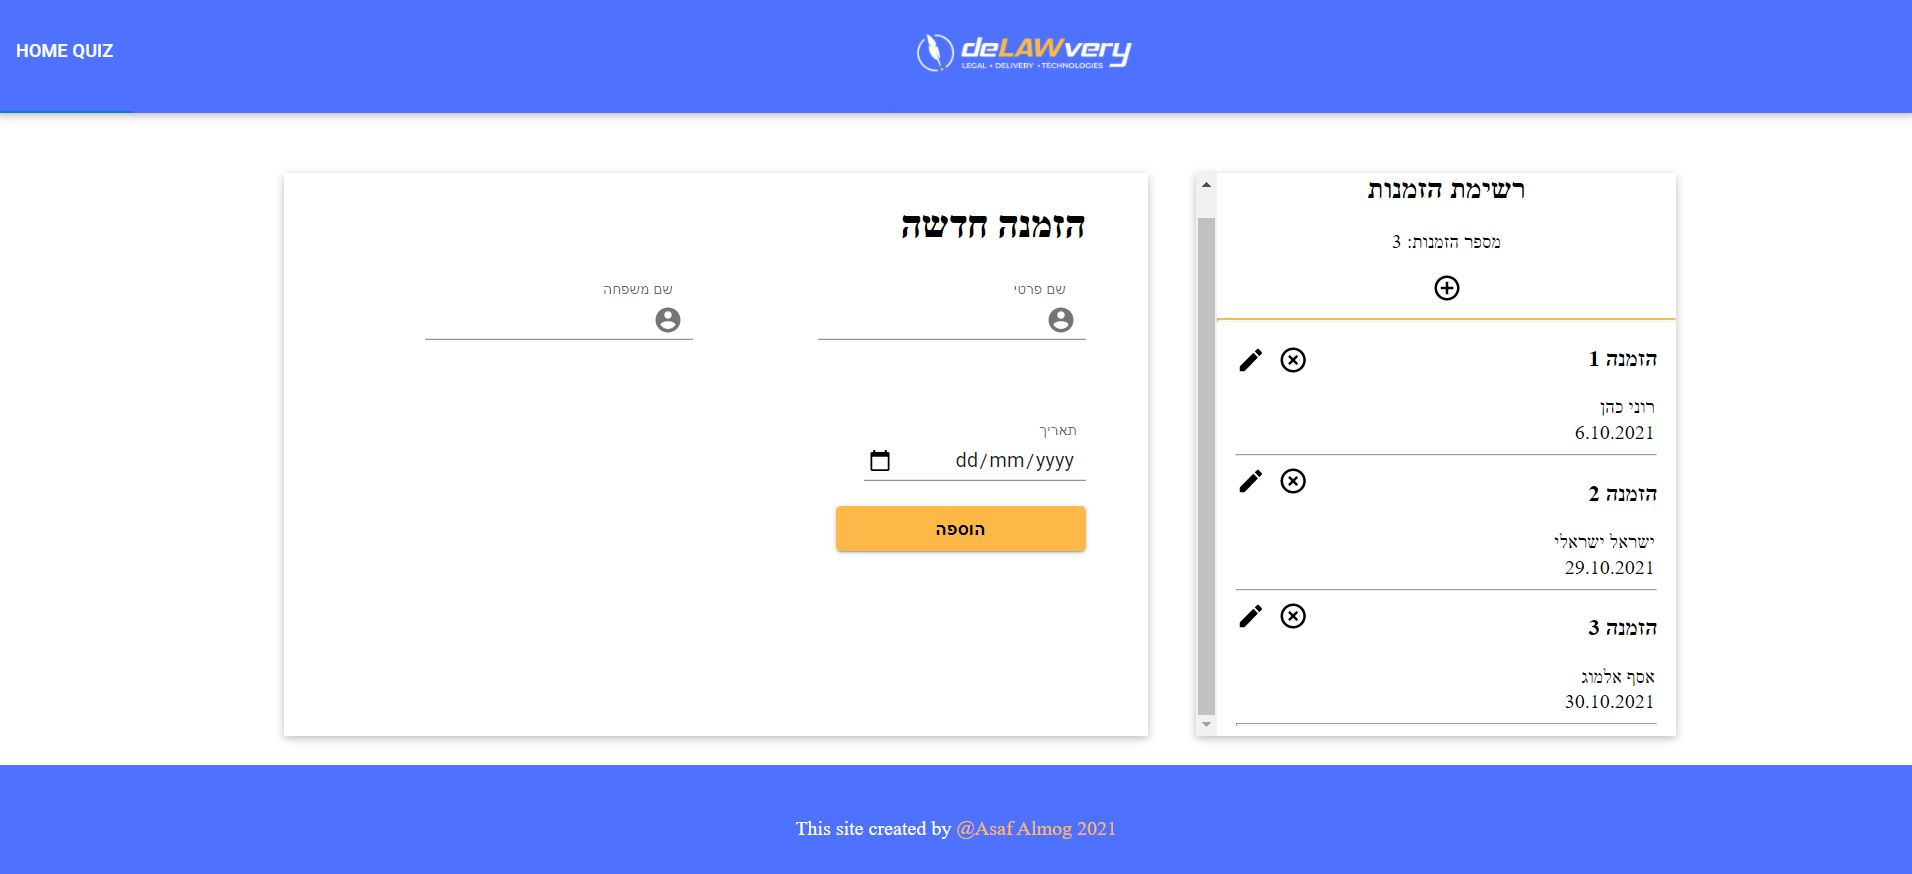
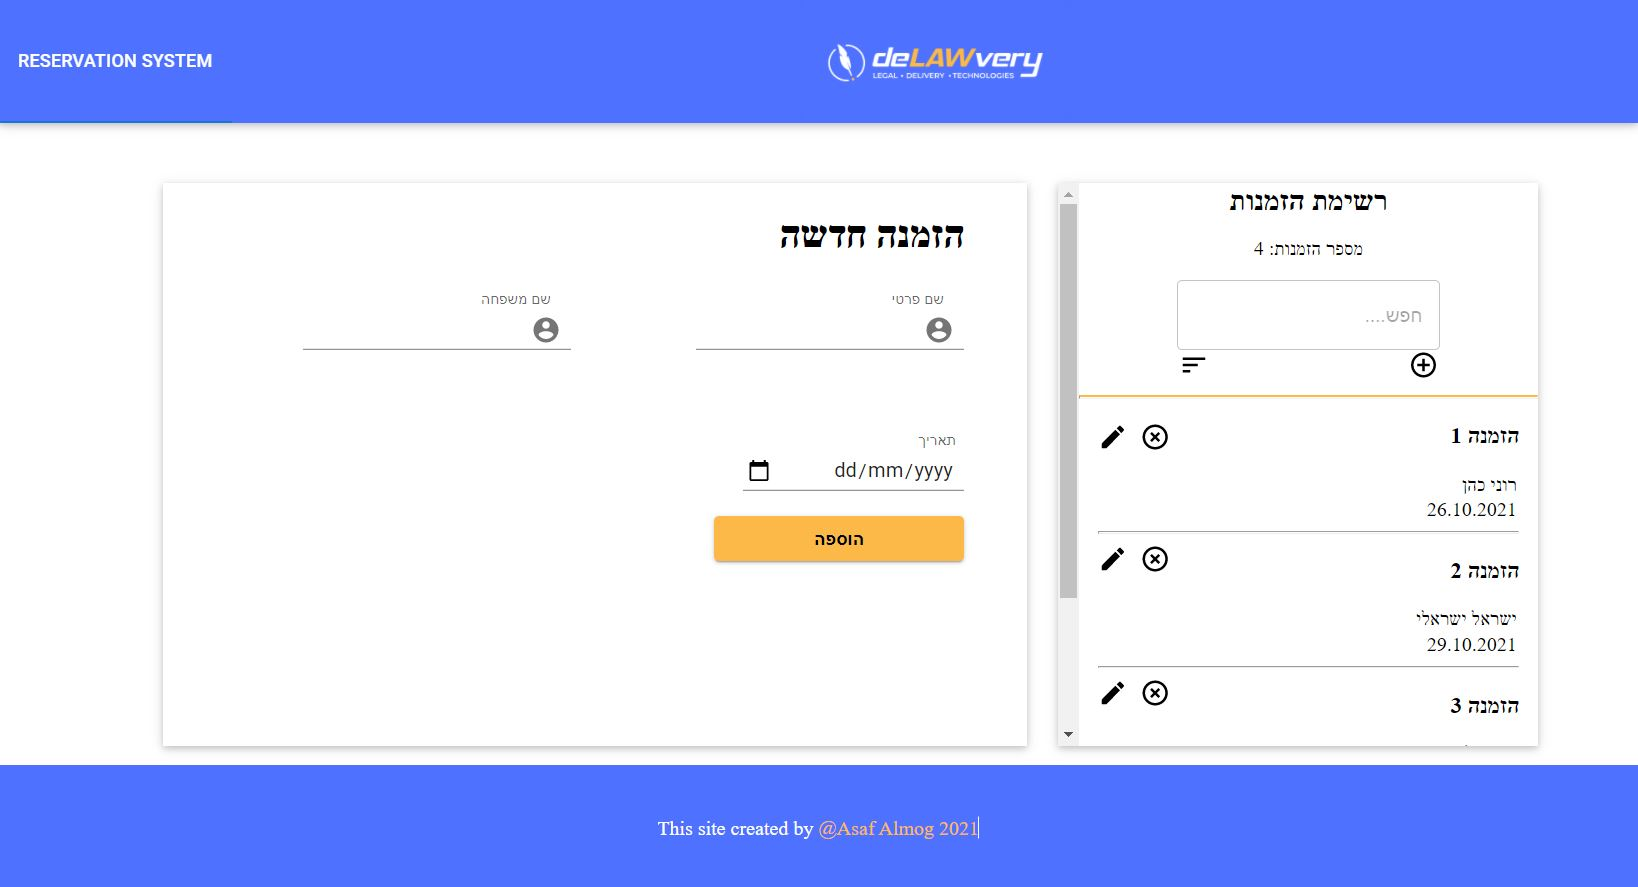
update sort, search and css

diff --git a/src/components/Reservations/Reservations.js b/src/components/Reservations/Reservations.js
@@ -34,19 +34,24 @@ const Reservations = ({ setReservations, reservations, getSelectedReservation, i
                         />
                     </div>
 
-                    <ControlPointIcon className='addReservationBtn'
-                        onClick={() => initialNewReservation()}
-                        titleAccess='הוספה'
-                    />
-                    <SortIcon className='addReservationBtn'
-                        onClick={() => sortType === 'newFirst' ? setSortType('oldFirst') : setSortType('newFirst')}
-                    />
-                    <span>
-                        {
-                            sortType === null ? '' :
-                                sortType === 'newFirst' ? 'מהחדש לישן' : 'מהישן לחדש'
-                        }
-                    </span>
+                    <div className='rowOfButtons'>
+                        <ControlPointIcon className='addReservationBtn'
+                            onClick={() => initialNewReservation()}
+                            titleAccess='הוספה'
+                        />
+                        <div className='sortBtn'>
+                            <SortIcon
+                                onClick={() => sortType === 'newFirst' ? setSortType('oldFirst') : setSortType('newFirst')}
+                            />
+                            <br />
+                            <span style={{}}>
+                                {
+                                    sortType === null ? '' :
+                                        sortType === 'newFirst' ? 'מהחדש לישן' : 'מהישן לחדש'
+                                }
+                            </span>
+                        </div>
+                    </div>
                 </div>
                 <hr style={{ borderTop: '2px solid #fcb948' }} />
 

diff --git a/src/components/Reservations/reservations.css b/src/components/Reservations/reservations.css
@@ -9,13 +9,22 @@
 .mainDetailsOfReservations {
   text-align: center;
 }
+.mainDetailsOfReservations .rowOfButtons {
+  display: flex;
+}
+.mainDetailsOfReservations .rowOfButtons .addReservationBtn,
+.mainDetailsOfReservations .rowOfButtons .sortBtn {
+  flex: 1;
+}
 .mainDetailsOfReservations h2 {
   margin: 0;
 }
-.mainDetailsOfReservations .addReservationBtn {
+.mainDetailsOfReservations .addReservationBtn,
+.mainDetailsOfReservations .sortBtn svg {
   cursor: pointer;
 }
-.mainDetailsOfReservations .addReservationBtn:hover {
+.mainDetailsOfReservations .addReservationBtn:hover,
+.mainDetailsOfReservations .rowOfButtons .sortBtn svg:hover {
   color: blue;
 }
 @media only screen and (max-width: 600px) {
